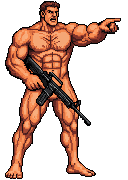
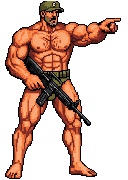
Dan final stage: olive jockstrap with cap instead of smooth concealed nude
Claude-Session: https://claude.ai/code/session_01VCzUnoAUkKZrLg4uFbhBUz

diff --git a/web/index.html b/web/index.html
@@ -1280,7 +1280,7 @@ const LINES = {
 const BARE_LINE = {
   ben: 'ไม่เคยมีใครทำให้ข้าถอดได้มาก่อน', jompon: 'นี่คือคำสั่ง… มองให้เต็มตา!', dave: 'นายอำเภอไม่มีอะไรต้องซ่อน',
   champ: 'รอบนี้ไม่ต้องใช้เข็มขัดแชมป์แล้ว', ton: 'ลุงใส่เสื้อให้คนอื่นจนตัวเองไม่เหลือเลย', ming: 'ไพ่ใบสุดท้ายคือตัวเฮียเอง',
-  jay: 'เล็งตรงไหนอยู่ หืม?', dan: 'สั่งให้คนอื่นถอดมาทั้งชีวิต… ตาข้าบ้างแล้วสินะ', fah: 'ผ้าเช็ดตัวผืนเดียว… จะดึงก็ดึงสิ',
+  jay: 'เล็งตรงไหนอยู่ หืม?', dan: 'เหลือแค่ jockstrap… แต่คำสั่งยังเหมือนเดิม!', fah: 'ผ้าเช็ดตัวผืนเดียว… จะดึงก็ดึงสิ',
   q: 'โชว์สุดท้ายของคืนนี้… อย่ากระพริบตาล่ะ', tiger: 'ร้อนจนเสือต้องถอดลาย!', non: 'เห็นไหม เล่นมาทั้งปีเพื่อวันนี้',
 };
 const pick = a => a[Math.floor(Math.random() * a.length)];

diff --git a/art/build_art.py b/art/build_art.py
@@ -11,7 +11,7 @@ CHARS = {
   'ton':    ('chars/ton_A_0.png', 'chars/ton_A_0.png', 'chars/ton_B_0.png'),
   'ming':   ('chars/ming_A_0.png', 'chars/ming_A_0.png', 'chars/ming_B_0.png'),
   'jay':    ('chars/jay_A2_0.png', 'chars/jay_A2_0.png', 'chars/jay_B_0.png'),
-  'dan':    ('chars/dan_A_0.png', 'chars/dan_A1_0.png', 'chars/dan_B_0.png'),
+  'dan':    ('chars/dan_A_0.png', 'chars/dan_A1_0.png', 'chars/dan_B5_0.png'),
   'fah':    ('chars/fah_A_0.png', 'chars/fah_A_0.png', 'chars/fah_B2_0.png'),
   'q':      ('chars/q_A_0.png', 'chars/q_A_0.png', 'chars/q_B_0.png'),
   'tiger':  ('chars/tiger_A_0.png', 'chars/tiger_A_0.png', 'chars/tiger_B_0.png'),
